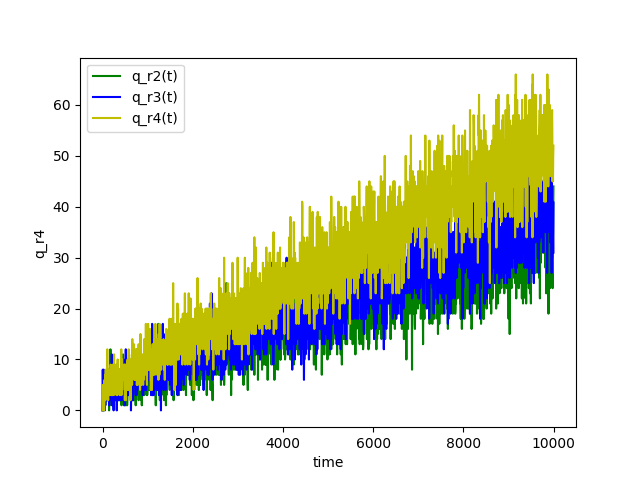
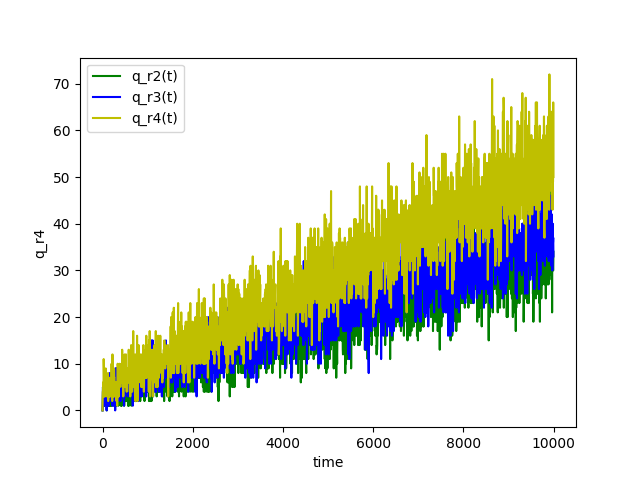
fixed HW2

diff --git a/Homeworks/HW2/main.py b/Homeworks/HW2/main.py
@@ -73,14 +73,13 @@ if __name__ == "__main__":
         for j in range(x_r4):
             q_r4[i] += will_activate(p1_r4[i])
 
-        u[i] = u[i - 1] + u_r2 * time_quant_ms * (q_r2[i] + u_r3 * q_r3[i] + u_r4 * q_r4[i])
+        u[i] = u[i - 1] + (u_r2 * q_r2[i] + u_r3 * q_r3[i] + u_r4 * q_r4[i]) * time_quant_ms
         if u[i] >= u_spike:
             f_activation[i] = 1
             u[i] = u0
             spikes_cnt += 1
         else:
             f_activation[i] = 0
-
 
     print(spikes_cnt)
 
